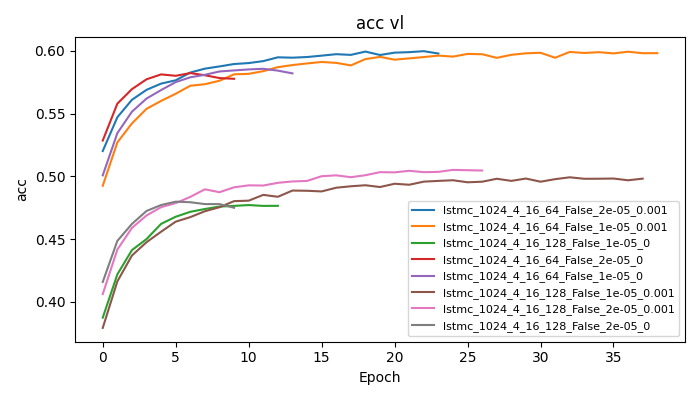
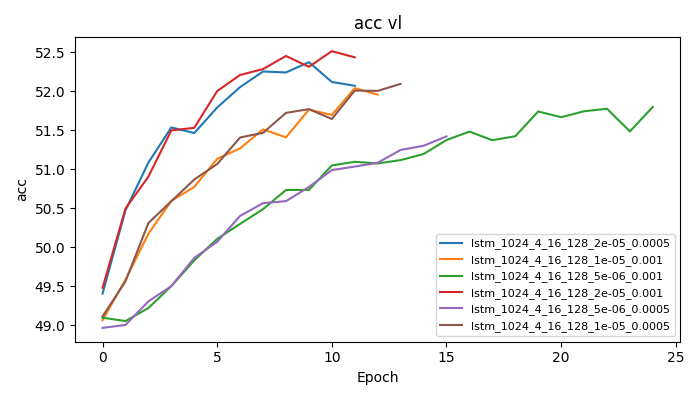
sad results with fancy loss

diff --git a/WorldModelExp/search/lstm_view.py b/WorldModelExp/search/lstm_view.py
@@ -7,16 +7,14 @@ sys.path.insert(1, os.path.join(sys.path[0], '../'))
 
 from global_var import CURRENT_ENV
 
-
 VAE_TO_TEST = [(4, 16, 128), (4, 16, 64)] # latent, code_depth, codebook_size
-NUM_EPOCS=65 # this is (if there is no early stopping around 1 our per model)
-LEARNING_RATES=[1e-5, 2e-5]
-LAMBDA_REGS = [0, 1e-3, 2e-3]
-USE_KL = [True]
+NUM_EPOCS=100 # this is (if there is no early stopping around 1 our per model)
+LEARNING_RATES=[5e-6, 1e-5, 2e-5]
+LAMBDA_REGS = [5e-4, 1e-3]
 
 HIDDEN_DIM = 1024
-SEQ_LEN = 7
-INIT_LEN = 2
+SEQ_LEN = 23
+INIT_LEN = 18
 
 
 def load_history(path, version):
@@ -35,10 +33,10 @@ def plot_history(history: dict, title=None):
 	
 	fig, axs = plt.subplots(1, 3, figsize=(15, 4))
 
-	# CE
-	axs[0].plot(history["tr"]["ce"], label="train")
-	axs[0].plot(history["vl"]["ce"], label="val")
-	axs[0].set_title("Cross-Entropy")
+	# MSEQ
+	axs[0].plot(history["tr"]["qmse"], label="train")
+	axs[0].plot(history["vl"]["qmse"], label="val")
+	axs[0].set_title("MSE-q")
 	axs[0].legend()
 
 	# MSE
@@ -59,7 +57,7 @@ def plot_history(history: dict, title=None):
 	plt.tight_layout()
 	plt.savefig(f"images/fig_{title}.png")
 	
-def plot_metric_across_runs(histories: dict, set="tr", metric="ce"):
+def plot_metric_across_runs(histories: dict, set="tr", metric="mseq"):
 
 	plt.figure(figsize=(7, 4))
 	for name, hist in histories.items():
@@ -72,16 +70,15 @@ def plot_metric_across_runs(histories: dict, set="tr", metric="ce"):
 	plt.tight_layout()
 	plt.savefig(f"images/all_{set}_{metric}")
 
-def filter_parameter(all:dict, codebook_sizes=[128, 64], kl=[True, False], lr=[1e-5, 2e-5], wd=[0, 1e-3, 2e-3]) -> dict:
+def filter_parameter(all:dict, codebook_sizes=[128, 64], lr=LEARNING_RATES, wd=LAMBDA_REGS) -> dict:
 	interest_files = {}
 	for name, hist in all.items():
 		if isinstance(name, str):
-			model, size, ld, cd, cs, klc, lrc, wdc = tuple(name.split("_"))
+			model, size, ld, cd, cs, lrc, wdc = tuple(name.split("_"))
 			cs = int(cs)
-			klc= True if klc == "True" else False
 			lrc=float(lrc)
 			wdc=float(wdc)
-			if cs in codebook_sizes and klc in kl and lrc in lr and wdc in wd:
+			if cs in codebook_sizes and lrc in lr and wdc in wd:
 				interest_files[name] = hist
 		else:
 			raise RuntimeError("Keys must be strings")
@@ -100,20 +97,19 @@ if __name__ == '__main__':
 
 	LEARNING_RATE=2e-5
 	LAMBDA_REG = 0.001
-	USE_KL = False
 
 	LATENT_DIM = 4
 	CODE_DEPTH = 16
 	CDODEBOOK_SIZE = 64
 
-	file_name = f'lstmc_{HIDDEN_DIM}_{LATENT_DIM}_{CODE_DEPTH}_{CDODEBOOK_SIZE}_{USE_KL}_{LEARNING_RATE}_{LAMBDA_REG}'
-	
+	file_name = f'lstm_{HIDDEN_DIM}_{LATENT_DIM}_{CODE_DEPTH}_{CDODEBOOK_SIZE}_{LEARNING_RATE}_{LAMBDA_REG}'
+
 	h = load_all_histories(CURRENT_ENV['data_dir'] + "histories/")
 	sorted_keys = get_best_model_keys(h)
 	print(" --- --- [MODELS FOUNDED] --- --- ")
 	for i, name in enumerate(sorted_keys):
 		print(f"{i}: {name}")
 	plot_history(h[file_name], title=file_name)
-	h = filter_parameter(h, kl=[False, True], codebook_sizes=[64, 128])
-	plot_metric_across_runs(h, metric="acc", set="vl")
+	h = filter_parameter(h, codebook_sizes=[128])
+	plot_metric_across_runs(h, metric="mse", set="tr")
 
